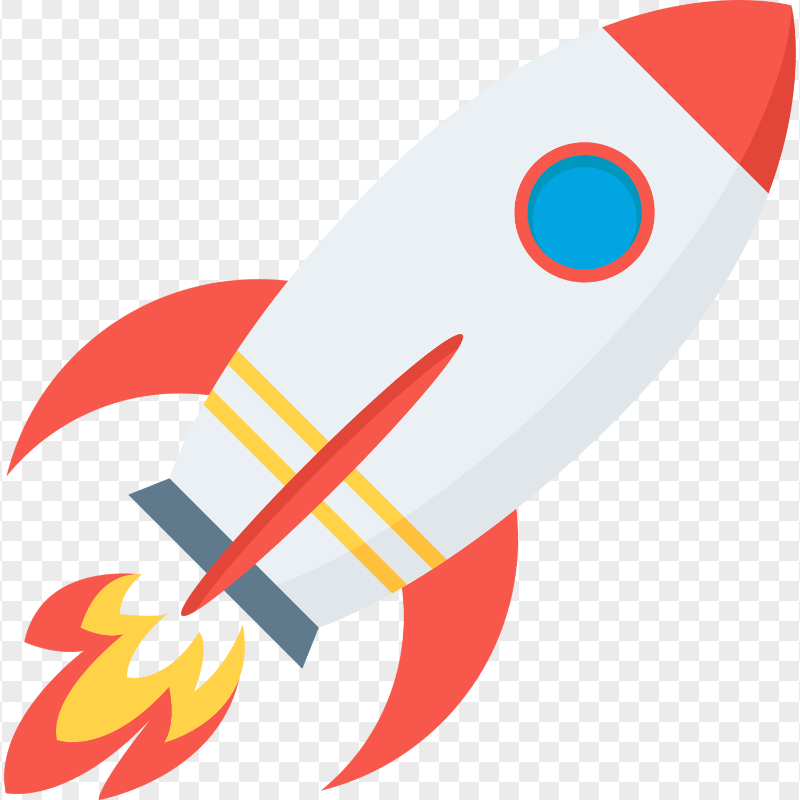
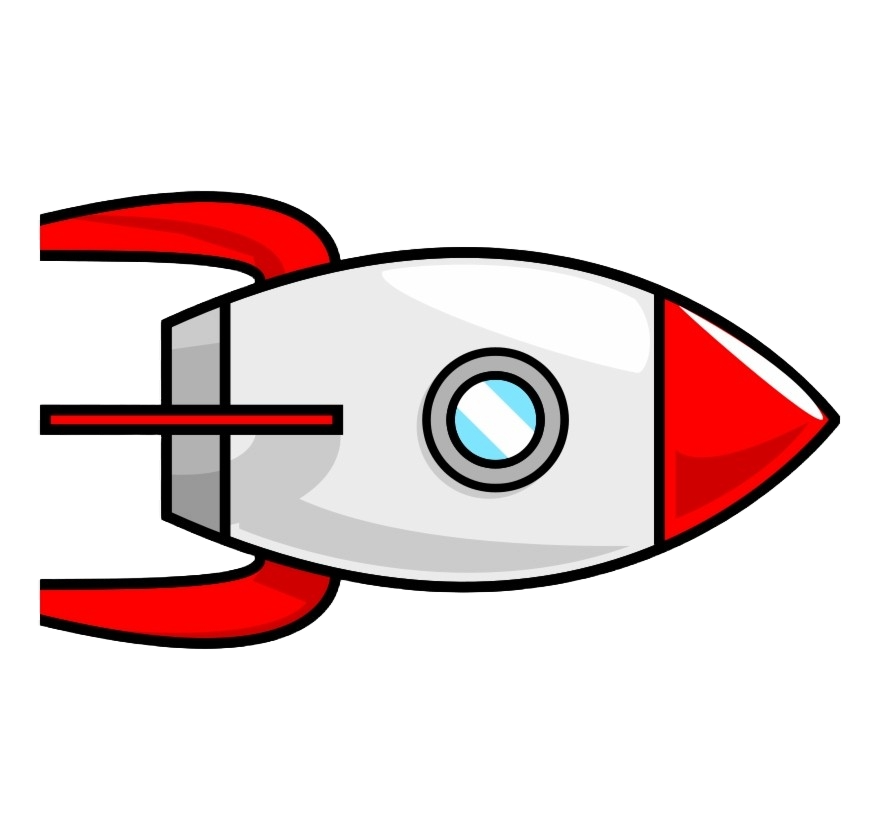
using https://chatgpt.com/share/68099082-16c8-8011-b87a-1ff7501c8d22 as reference, made it to where button dissapears after no planet is hit, changed collisions and rocket image, now just need new screens to pop up

diff --git a/final_game/finalcode.py b/final_game/finalcode.py
@@ -1,10 +1,10 @@
 import pygame
 import sys
 from dataclasses import dataclass
-
 # Planet class
 # dataclass was explained by TA (Nauka) for unit test file in order to test "check_planet" method
 @dataclass
+
 class Planet:
     def __init__(self, name, description, x_start, x_end):
         self.name = name
@@ -20,6 +20,7 @@ class Planet:
         return f"{self.name}: {self.description}"
 
 
+# Rocket
 class Rocket:
     def __init__(self):
         self.reset()
@@ -44,6 +45,7 @@ class Rocket:
                 return planet
 
             if planet.is_hit(self.x) and not planet.hit:
+                planet.hit = True
                 self.current_planet = planet
                 return planet
         return None
@@ -111,22 +113,28 @@ if __name__ == "__main__":
                 # if width / 2 <= mouse[0] <= width / 2 + 140 and height / 2 <= mouse[1] <= height / 2 + 40:
                 # open new screen
 
-        found_planet = rocket.check_planet(planet_zones)
+        rocket.current_planet = None
+        for planet in planet_zones:
+            if planet.is_hit(rocket.x):
+                rocket.current_planet = planet
+                break
         rocket.draw()
 
         if rocket.current_planet:
-            pygame.draw.rect(screen, (0, 0, 0), (20, 20, 500, 40))
-            info_text = font.render(rocket.current_planet.get_info(), True, (255, 255, 255))
-            screen.blit(info_text, (30, 30))
-            if width / 2.5 <= mouse[0] <= width / 2 + 140 and height / 1.58 <= mouse[1] <= height / 1.58 + 30:
-                pygame.draw.rect(screen, color_light, [width / 2.5, height / 1.58, 140, 40])
-            else:
-                pygame.draw.rect(screen, color_dark, [width / 2.5, height / 1.58, 140, 40])
 
+            pygame.draw.rect(screen, color_light, [width / 2.5, height / 1.58, 140, 40])
             screen.blit(text, (width / 2.5 + 40, height / 1.58))
+        else:
+            pygame.draw.rect(screen, (0,0,0), [width / 2.5, height / 1.58, 140, 40])
+
+        screen.blit(text, (width / 2.5 + 40, height / 1.58))
 
         pygame.display.update()
         clock.tick(30)
 
     pygame.quit()
     sys.exit()
+
+
+'''important note *** when we integrate a button we should have the event handler for text, we just have a button pop up
+when a planet is hit then we handle screen and changing them'''